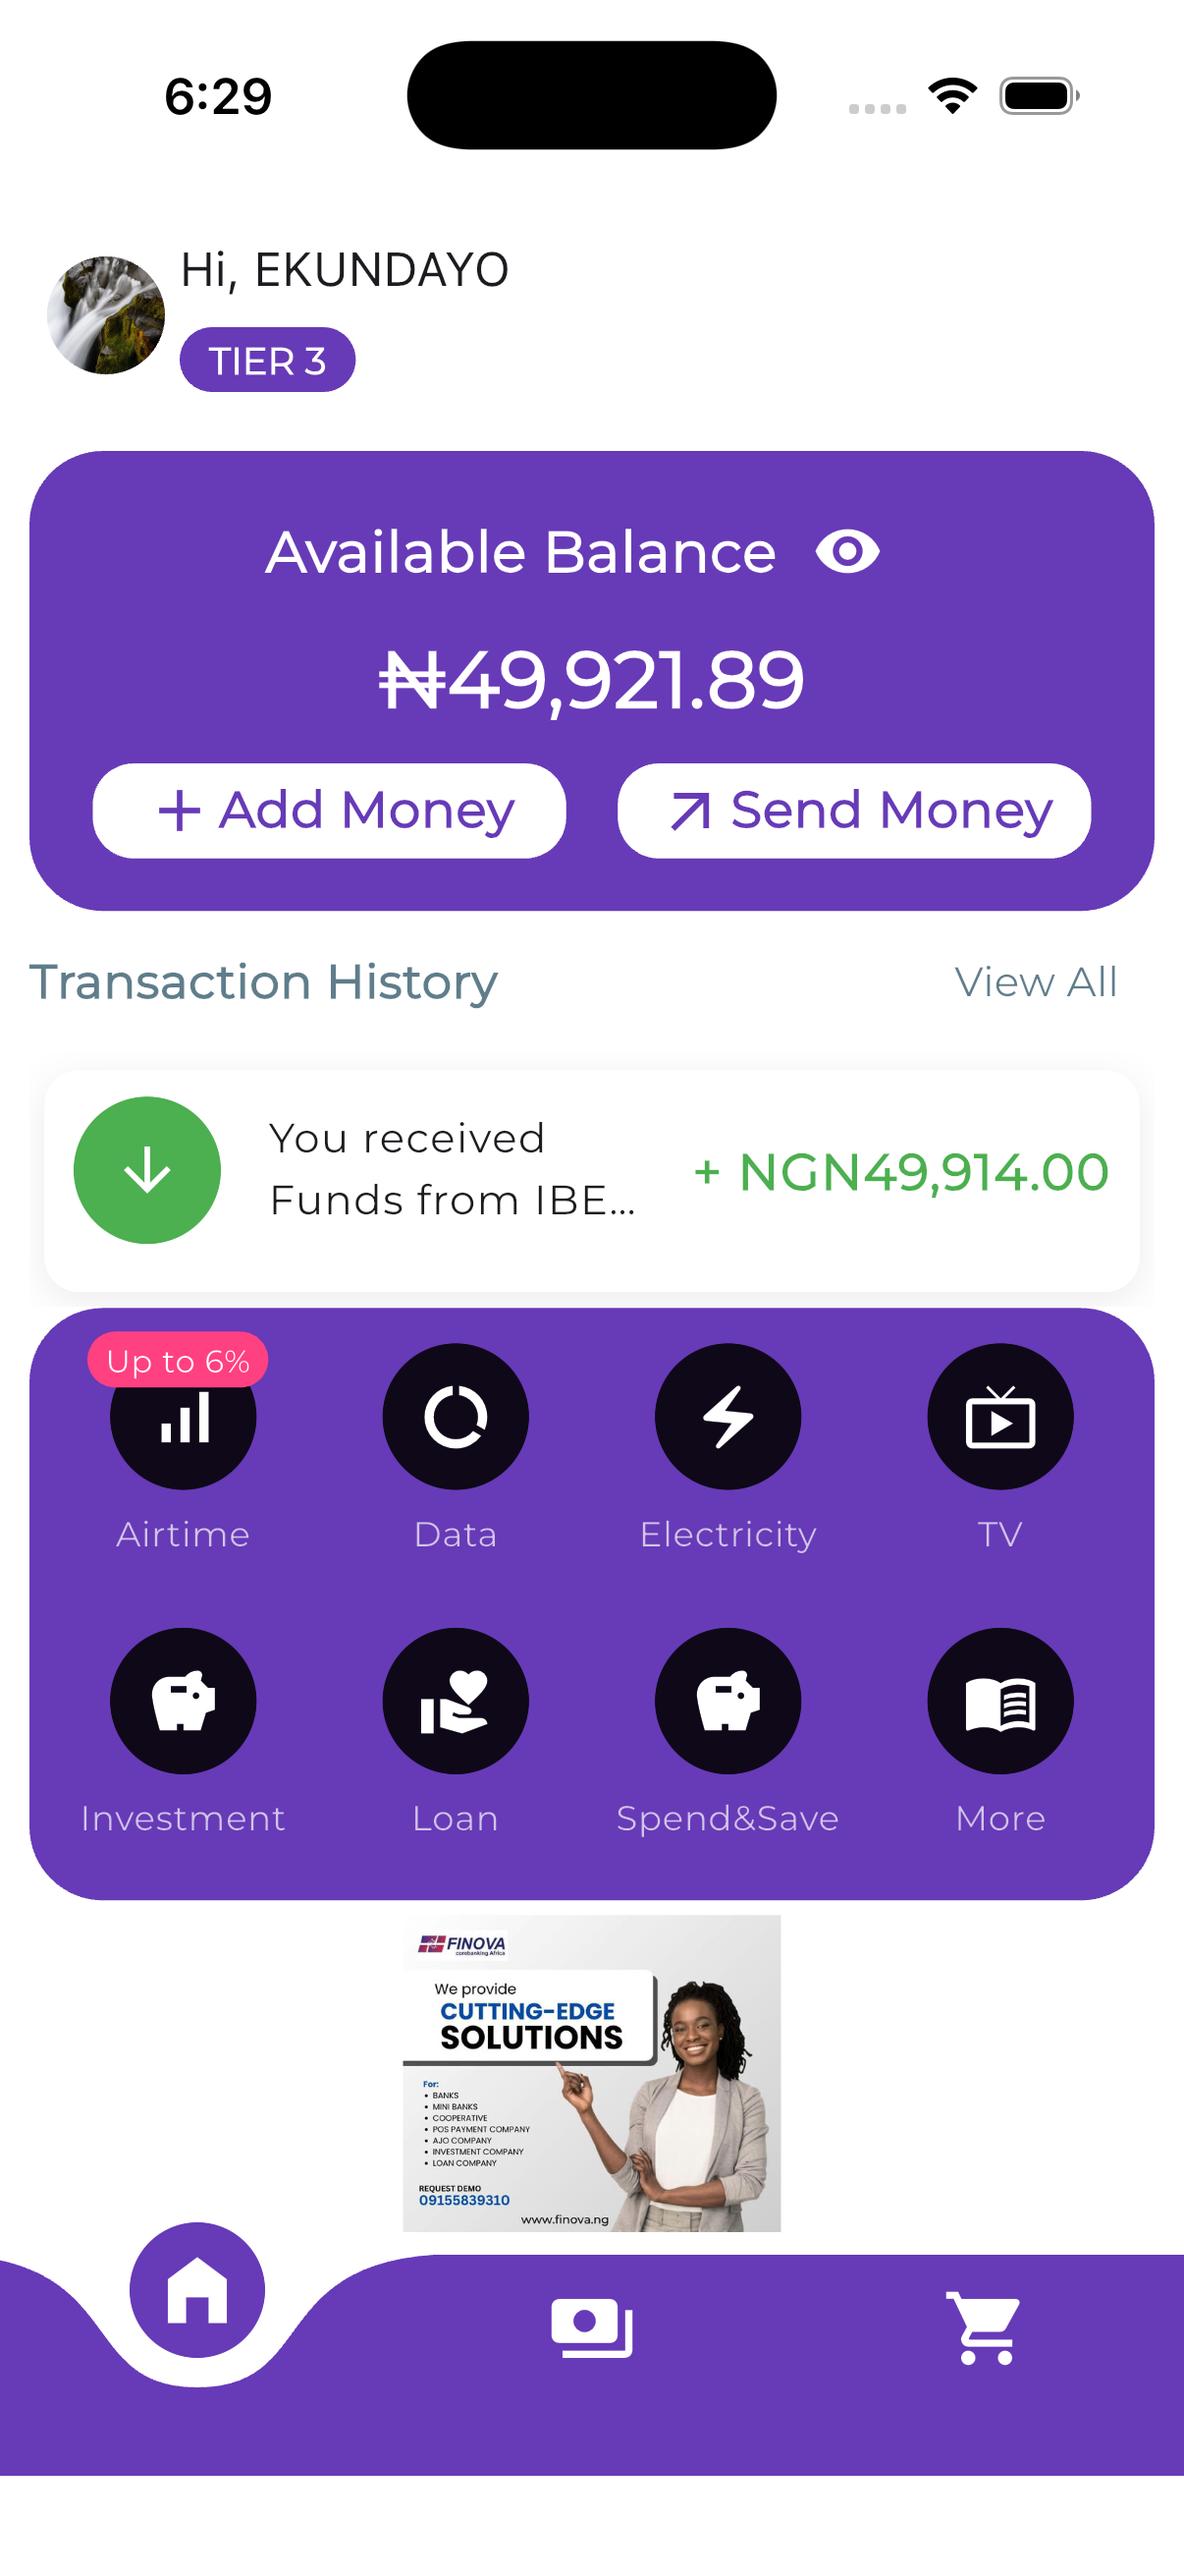
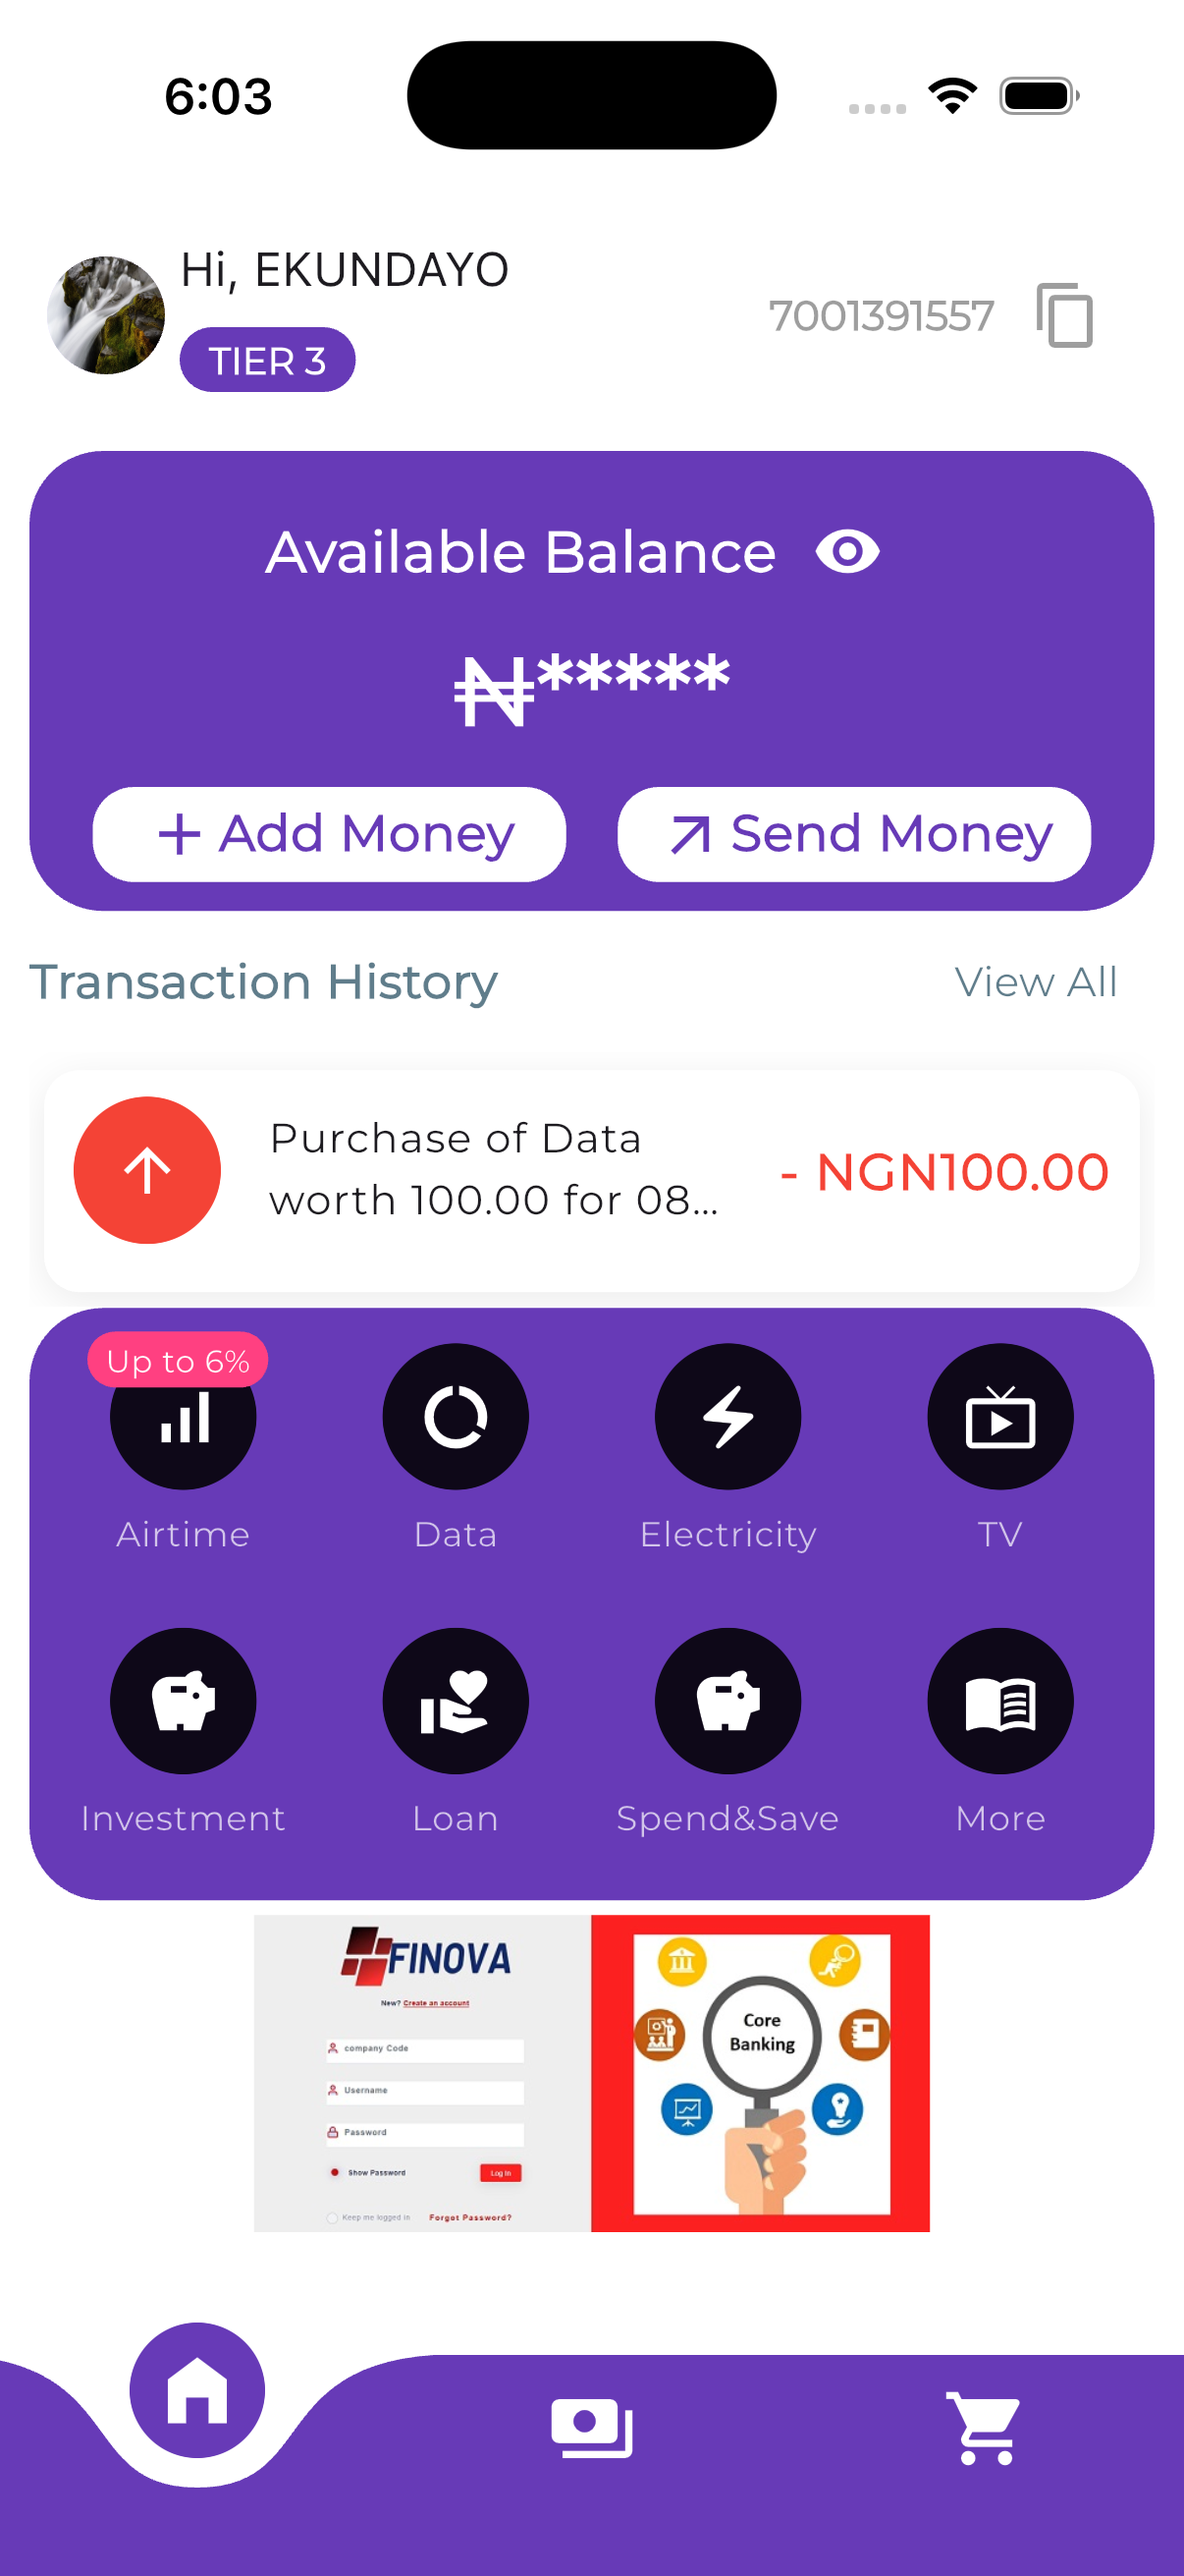
edit

diff --git a/lib/mobile_apps.dart b/lib/mobile_apps.dart
@@ -314,7 +314,7 @@ class _MobileAppsState extends State<MobileApps> {
                           subtitle: 'Car Rental App',
                           tag: 'Android & iOS',
                           tagColor: const Color(0xFF4A90D9),
-                          imagePath: 'assets/images/aria2.png',
+                          imagePath: 'assets/images/aria5.png',
                           description:
                               'A premium car rental experience with a sleek and intuitive interface.',
                           onTap: () => _push(Aria()),
@@ -340,7 +340,7 @@ class _MobileAppsState extends State<MobileApps> {
                           subtitle: 'Fraud protection app',
                           tag: 'Android & iOS',
                           tagColor: Colors.blue,
-                          imagePath: 'assets/images/fw2.png',
+                          imagePath: 'assets/images/fw1.png',
                           description: 'Protect Against Fraud & Scams',
                           onTap: () => _push(Fraudwatch()),
                           mobileHeight: 400,

diff --git a/lib/fraudwatch.dart b/lib/fraudwatch.dart
@@ -12,12 +12,12 @@ class Fraudwatch extends StatefulWidget {
 
 class _FraudwatchState extends State<Fraudwatch> {
   static const List<String> _images = [
-    'assets/images/fw1.png',
+    'assets/images/fw1.PNG',
     'assets/images/fw2.png',
-    'assets/images/fw3.png',
-    'assets/images/fw4.png',
-    'assets/images/fw5.png',
-    'assets/images/fw6.png',
+    'assets/images/fw3.PNG',
+    'assets/images/fw4.PNG',
+    'assets/images/fw5.PNG',
+    'assets/images/fw6.PNG',
   ];
   final Uri playstoreUrl = Uri.parse(
     'https://play.google.com/store/apps/details?id=com.fw360.uk',
